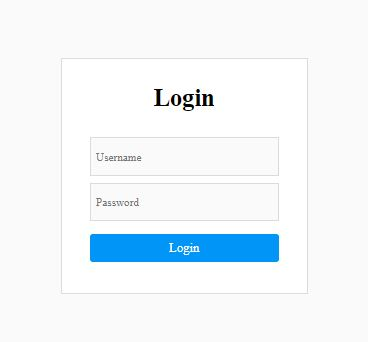
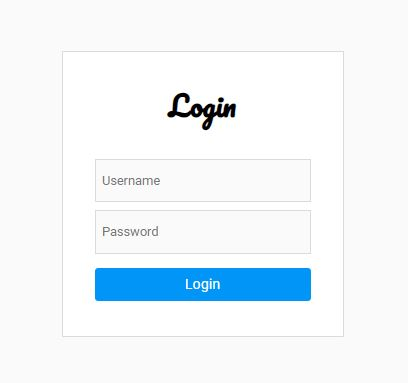
add fonts to login view

Changed region(s): [[0.2092, 0.4094, 0.7772, 0.7895], [0.3886, 0.2339, 0.5978, 0.3509], [0.8071, 0.848, 0.837, 0.8772]]

diff --git a/src/assets/styles/main.scss b/src/assets/styles/main.scss
@@ -1,11 +1,12 @@
 // SETUP
 @import 'setup/vars';
-@import 'setup/mixins';
 @import 'setup/functions';
+@import 'setup/typograghy';
+@import 'setup/mixins';
 
 // BASICS
-@import 'basics/helpers';
 @import 'basics/base';
+@import 'basics/helpers';
 @import 'basics/layout';
 
 // VIEWS
